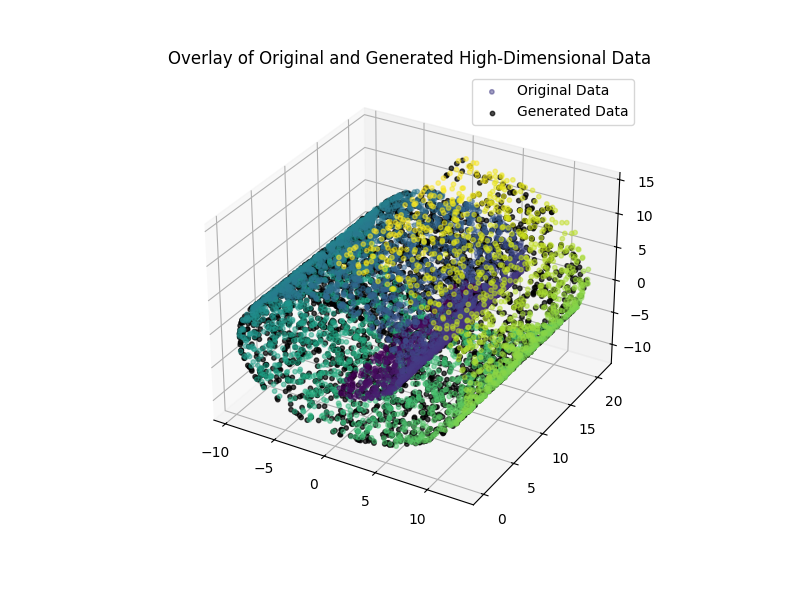
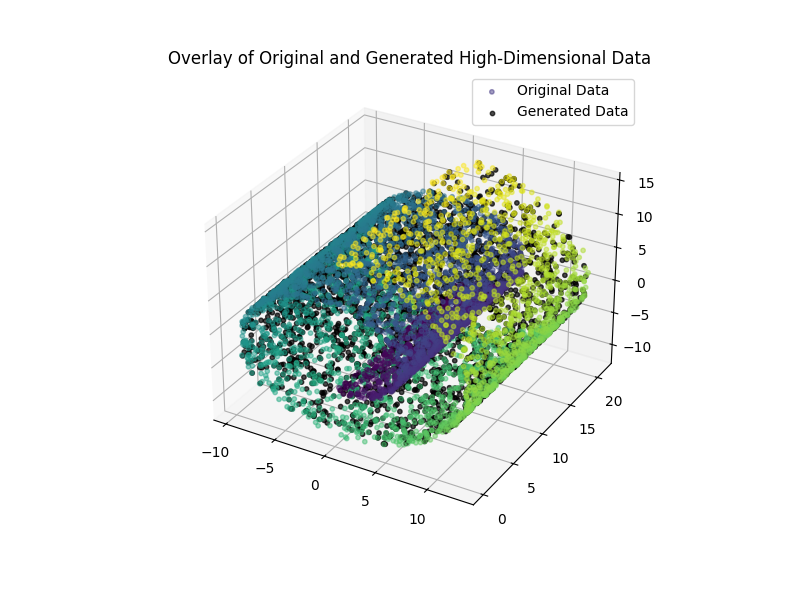
add UMAP

Changed region(s): [[0.2812, 0.24, 0.75, 0.75]]

diff --git a/src/reducer.py b/src/reducer.py
@@ -1,11 +1,13 @@
 from sklearn.manifold import LocallyLinearEmbedding
 from sklearn.decomposition import KernelPCA
+from umap import UMAP
 
 def lle_reduction(data, n_components=2, n_neighbors=10):
     """
     局所線形埋め込み (LLE) を用いて次元削減を行う関数
     """
-    lle = LocallyLinearEmbedding(n_neighbors=n_neighbors, n_components=n_components, method='standard')
+    # lle = LocallyLinearEmbedding(n_neighbors=n_neighbors, n_components=n_components, method='standard')
+    lle = LocallyLinearEmbedding(n_neighbors=n_neighbors, n_components=n_components, method='modified')
     reduced_data = lle.fit_transform(data)
     return reduced_data, lle
 
@@ -13,3 +15,22 @@ def kernel_pca_reduction(data, kernel='rbf', n_components=2, gamma=None, random_
     kpca = KernelPCA(n_components=n_components, kernel=kernel, gamma=gamma)
     reduced_data = kpca.fit_transform(data)
     return reduced_data, kpca
+
+def umap_reduction(data, n_components=2, n_neighbors=15, min_dist=0.1, random_state=None):
+    """
+    UMAPを用いて次元削減を行う関数
+    
+    Parameters:
+        data (array-like): 高次元データ (n_samples, n_features)
+        n_components (int): 低次元の次元数
+        n_neighbors (int): 各点の近傍点数 (UMAPの局所性の尺度)
+        min_dist (float): 低次元空間での点間距離の最小値
+        random_state (int, optional): 再現性のためのランダムシード
+
+    Returns:
+        reduced_data (array-like): 次元削減後のデータ (n_samples, n_components)
+        umap_model (UMAP object): 学習済みのUMAPモデル
+    """
+    umap_model = UMAP(n_components=n_components, n_neighbors=n_neighbors, min_dist=min_dist, random_state=random_state)
+    reduced_data = umap_model.fit_transform(data)
+    return reduced_data, umap_model

diff --git a/manifold.py b/manifold.py
@@ -9,7 +9,7 @@ from src.plot_data import *
 
 def main():
     parser = argparse.ArgumentParser()
-    parser.add_argument('--red', default='lle',   choices=['kpca', 'lle'])
+    parser.add_argument('--red', default='lle',   choices=['kpca', 'lle', 'umap'])
     parser.add_argument('--reg', default='rf',    choices=['svr', 'rf'])
     parser.add_argument('--sam', default='mixup', choices=['kde', 'mixup'])
     args = parser.parse_args() 
@@ -27,7 +27,9 @@ def main():
     if red == 'kpca':
         reduced_data, kpca_model = kernel_pca_reduction(data, kernel='rbf', n_components=2, gamma=0.01, random_state=42)
     elif red == 'lle':
-        reduced_data, lle_model = lle_reduction(data, n_components=2, n_neighbors=10)
+        reduced_data, lle_model  = lle_reduction(data, n_components=2, n_neighbors=10)
+    elif red == 'umap':
+        reduced_data, umap_model = umap_reduction(data, n_components=2, n_neighbors=15, min_dist=0.1, random_state=42)
 
     ### Train Manifold Regressor ###
     if reg == 'svr':
@@ -40,6 +42,7 @@ def main():
         new_low_dim_data = generate_samples_from_kde(reduced_data, n_samples=5000)
     elif sam == 'mixup':
         new_low_dim_data = generate_samples_from_mixup(reduced_data, n_samples=5000)
+    plot_low_dim_comparison(reduced_data, new_low_dim_data)
 
     ### Generate High Dimensional Data using Regressor ###
     generated_high_dim_data = generate_high_dim_data(regressors, new_low_dim_data)
@@ -47,7 +50,7 @@ def main():
     ### Visualization ###
     plot_high_dim_comparison_with_overlay(data, color, generated_high_dim_data)
     plot_high_dim_comparison(data, color, generated_high_dim_data)
-    plot_low_dim_comparison(reduced_data, new_low_dim_data)
+    
 
 
 def generate_high_dim_data(regressors, low_dim_data):

diff --git a/src/plot_data.py b/src/plot_data.py
@@ -1,5 +1,3 @@
-import matplotlib
-matplotlib.use('Agg')
 import matplotlib.pyplot as plt
 
 ### 高次元データのプロット ###
